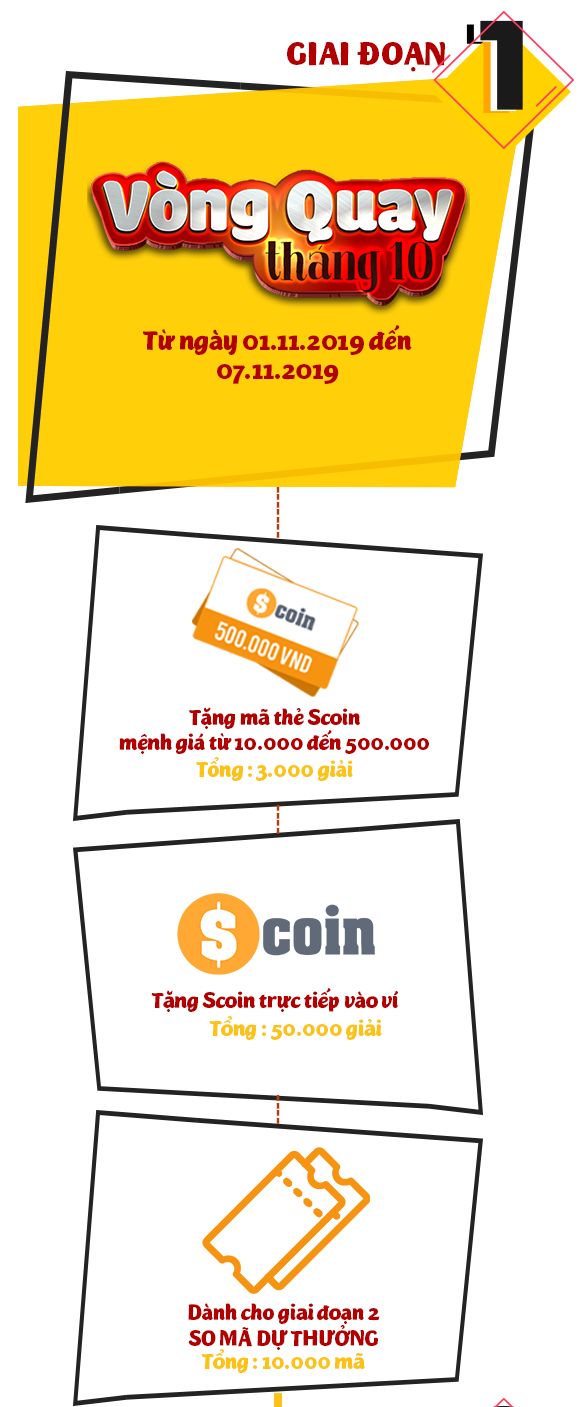
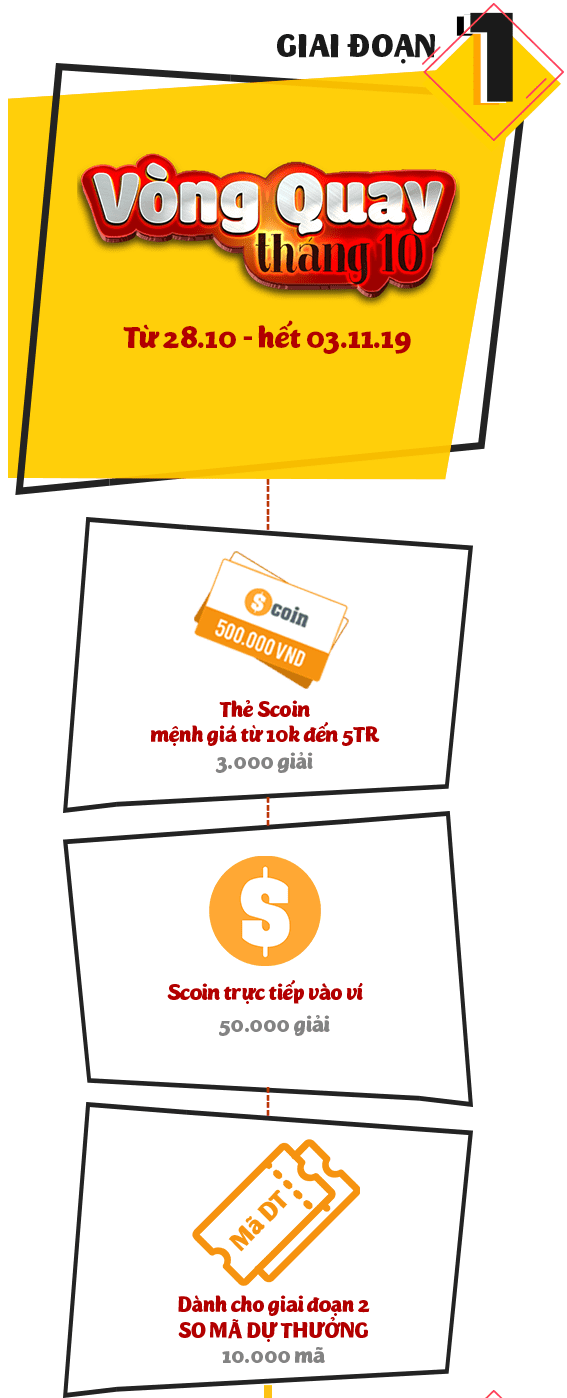
dev

Changed region(s): [[0.0, 0.0, 0.9894, 1.0], [0.8395, 0.9843, 0.8995, 1.0]]

diff --git a/src/containers/lucky_rotation/index.js b/src/containers/lucky_rotation/index.js
@@ -110,7 +110,8 @@ class Lucky_Rotation extends React.Component {
 			height:0,
 			img_width:0,
 			img_height:0,
-			code:true,
+			code:false,
+			scoinCard:false,
 			inputValue: '',
 			noti_mdt:false,
 			noti_tudo:false,
@@ -167,7 +168,7 @@ class Lucky_Rotation extends React.Component {
 				if(data!==undefined){
 					if(data.status==='01'){
 						if(data.data.itemOfSpin[1].quantity===0 && data.data.itemOfSpin[4].quantity===0){
-							var time=(1566815400000-Date.now())/1000;
+							var time=(1554984000000-Date.now())/1000;
 							this.setState({finished:true})
 							if(time>0){
 								$('#myModal13').modal('show');
@@ -194,15 +195,15 @@ class Lucky_Rotation extends React.Component {
 				var data=this.props.dataRotation;
 				if(data!==undefined){
 					if(data.status==='01'){
-						// if(data.data.itemOfSpin[1].quantity===0 && data.data.itemOfSpin[4].quantity===0){
-						// 	var time=(1566815400000-Date.now())/1000;
-						// 	this.setState({finished:true})
-						// 	if(time>0){
-						// 		$('#myModal13').modal('show');
-						// 	}else{
-						// 		$('#myModal14').modal('show');
-						// 	}
-						// }
+						if(data.data.itemOfSpin[1].quantity===0 && data.data.itemOfSpin[4].quantity===0){
+							var time=(1554984000000-Date.now())/1000;
+							this.setState({finished:true})
+							if(time>0){
+								$('#myModal13').modal('show');
+							}else{
+								$('#myModal14').modal('show');
+							}
+						}
 						this.getStatus(data.data.luckySpin);
 						this.timeShowLive(data.data.luckySpin.endDate);
 						this.setState({userTurnSpin:data.data.userTurnSpin, itemOfSpin:data.data.itemOfSpin, luckySpin:data.data.luckySpin, turnsFree:(data.data.userTurnSpin.turnsFree+data.data.userTurnSpin.turnsBuy), isLogin:false, linkLiveStream:data.data.luckySpin.linkLiveStream})
@@ -388,6 +389,9 @@ class Lucky_Rotation extends React.Component {
 												this.setState({noti_tudo:true})
 											},2000)
 											this.getVinhDanh(1);	
+										}
+										if(data.data.item.type==="SCOIN_CARD"){
+											this.setState({scoinCard:true})
 										}
 										this.setState({code:false})
 										
@@ -771,7 +775,7 @@ class Lucky_Rotation extends React.Component {
 	}
 
 	render() {
-		const {height, width, dialogLoginOpen, dialogBonus, auto, dialogWarning, textWarning, isLogin, userTurnSpin, day, hour, minute, second, code,numberPage, img_status, message_status, data_auto,message_error,linkLiveStream,
+		const {scoinCard,height, width, dialogLoginOpen, dialogBonus, auto, dialogWarning, textWarning, isLogin, userTurnSpin, day, hour, minute, second, code,numberPage, img_status, message_status, data_auto,message_error,linkLiveStream,
 			 activeTuDo, activeHistory, activeCodeBonus, activeVinhDanh, limit, countCodeBonus, countTuDo, countHistory, countVinhDanh, listHistory, listCodeBonus, listTuDo, listVinhDanh,itemBonus, turnsFree, noti_mdt, noti_tudo, finished, hour_live, minute_live, second_live, isLive, user}=this.state;
 		const { classes } = this.props;
 		const notification_mdt=noti_mdt?(<span className="badge badge-pill badge-danger position-absolute noti-mdt">!</span>):(<span></span>);
@@ -810,8 +814,8 @@ class Lucky_Rotation extends React.Component {
 					<p className="btn-thamgiangay"><a href="#p2" title="Tham gia ngay"><img src={thamgiangay} alt="Tham gia ngay" width="200" className="img-fluid" /></a></p>
 					<div className="position-absolute-p1">
 						<ul className="nav flex-column menu-left-p1">
-							{/* <li className="pt-6"><a href="https://scoin.vn/nap-tien" title="Nạp Scoin" target="_blank">Nạp Game</a></li> */}
-							<li className="pt-6"><a href="http://sandbox.scoin.vn/nap-tien" title="Nạp Scoin" target="_blank">Nạp Game</a></li>
+							{/* <li className="pt-6"><a href="https://scoin.vn/nap-game" title="Nạp Scoin" target="_blank">Nạp Game</a></li> */}
+							<li className="pt-6"><a href="http://sandbox.scoin.vn/nap-game" title="Nạp Scoin" target="_blank">Nạp Game</a></li>
 							<li className="pt-5b"><a href="#" title="Thể lệ" onClick={this.showModalRules}>Thể lệ</a></li>
 							<li className="pt-5b"><a href="#" title="Phần thưởng" onClick={this.showModalBonus}>Phần thưởng</a></li>
 							<li className="pt-5a"><a href="#bvd" title="Vinh danh">Vinh danh</a></li>
@@ -940,8 +944,8 @@ class Lucky_Rotation extends React.Component {
 						<a className="nav-link btn-dv text-uppercase text-nowrap" href="https://www.facebook.com/scoinvtcmobile/" title="Nhận thông báo sk" target="_blank">Nhận thông báo sk</a>
 						</li>
 						<li className="nav-item">
-						{/* <a className="nav-link btn-dv text-uppercase text-nowrap" href="https://scoin.vn/nap-tien" title="Nạp scoin" target="_blank">Nạp Game</a> */}
-						<a className="nav-link btn-dv text-uppercase text-nowrap" href="http://sandbox.scoin.vn/nap-tien" title="Nạp scoin" target="_blank">Nạp Game</a>
+						{/* <a className="nav-link btn-dv text-uppercase text-nowrap" href="https://scoin.vn/nap-game" title="Nạp scoin" target="_blank">Nạp Game</a> */}
+						<a className="nav-link btn-dv text-uppercase text-nowrap" href="http://sandbox.scoin.vn/nap-game" title="Nạp scoin" target="_blank">Nạp Game</a>
 						</li>
 						<li className="nav-item">
 						<a className="nav-link btn-dv text-uppercase text-nowrap" href="tel:19001104" title="Hotline hỗ trợ">HOT LINE: 19001104</a>
@@ -998,99 +1002,101 @@ class Lucky_Rotation extends React.Component {
 					</div>
 
 					{/* <!-- Modal body --> */}
-					<div className="modal-body">
-						<h3 className="text-red">I. Đối tượng tham gia</h3>
-						<p className="text-thele">Khách hàng có tài khoản Scoin. Nếu chưa có, đăng ký <code><a href="https://scoin.vn/thong-tin-ca-nhan" title="Đăng ký" target="_blank">tại đây</a></code>. <br />
-						Nạp game dùng thẻ Scoin mệnh giá tối thiểu 50k trong thời gian từ 00:01 ngày 1 - 23:59 ngày 7</p>
-						<h3 className="text-red">II. Cách thức tham gia sự kiện</h3>
+					<div class="modal-body">
+						<h3 class="text-red">I. Đối tượng tham gia</h3>
+						<p class="text-thele pl-3"> &bull; Khách hàng có tài khoản Scoin. Nếu chưa có, đăng ký <code><a href="#" title="Đăng ký" target="_blank">tại đây</a></code>. <br />
+						&bull; Nạp game dùng thẻ Scoin mệnh giá tối thiểu 50k trong thời gian từ 0h 28/10 - 23:59 03/11.</p>
+						<h3 class="text-red">II. Cách thức tham gia sự kiện</h3>
 						<div class="row">
-						<div class="col-4 bg-orange py-2 text-center border border-white rounded-lg"><button type="button" class="btn btn-primary d-block mx-auto mb-3">Bước 1</button><p class="text-dark">Nạp game(thẻ Scoin)</p> <p class="font-weight-bold text-success my-1">&nabla;</p> <p class="text-dark">Nhận lượt chơi</p></div>          
-						<div class="col-4 bg-orange py-2 text-center border border-white rounded-lg"><button type="button" class="btn btn-info d-block mx-auto mb-3">Bước 2</button><p class="text-dark">Chơi vòng quay </p> <p class="font-weight-bold text-success my-1">&nabla;</p> <p class="text-dark">Nhận mã dự thưởng</p></div>          
-						<div class="col-4 bg-orange py-2 text-center border border-white rounded-lg"><button type="button" class="btn btn-success d-block mx-auto mb-3">Bước 3</button><p class="text-dark">So KQ Mã dự thưởng <br /> 18:30 ngày 8 sự kiện</p></div>         
+						<div class="col-4 bg-orange py-2 text-center border border-white rounded-lg"><button type="button" class="btn btn-primary d-block mx-auto mb-3">Bước 1</button><p class="text-dark">Nạp game(thẻ Scoin)</p> <p class="font-weight-bold text-success my-1">&nabla;</p> <p class="text-dark">Nhận lượt chơi</p></div> 
+						<div class="col-4 bg-orange py-2 text-center border border-white rounded-lg"><button type="button" class="btn btn-info d-block mx-auto mb-3">Bước 2</button><p class="text-dark">Chơi vòng quay </p> <p class="font-weight-bold text-success my-1">&nabla;</p> <p class="text-dark">Nhận mã dự thưởng</p></div> 
+						<div class="col-4 bg-orange py-2 text-center border border-white rounded-lg"><button type="button" class="btn btn-success d-block mx-auto mb-3">Bước 3</button><p class="text-dark">So KQ Mã dự thưởng <br /> 19:00 04/11</p></div> 
 						</div>
-						<p className="text-thele pt-3">Bước 1:  Nạp game bất kỳ, chọn kênh thẻ cào Scoin mệnh giá tối thiểu 50k. <br />
-						Bước 2: Nhận lượt quay miễn phí, tương ứng với thẻ Scoin nạp thành công:</p>
-						<div className="table-responsive">
-							<table className="table table-bordered text-center text-thele">
-								<thead>
-									<tr>
-										<th colspan="4">Nạp thẻ Scoin vào game</th>                    
-									</tr>
-									<tr>
-										<th>STT</th>
-										<th>Mệnh giá thẻ Scoin (VNĐ)</th>
-										<th>Số lượt quay chuẩn</th>
-										<th>Số lượt quay (đã cộng)</th>
-									</tr>
-									</thead>
-									<tbody>
-									<tr>
-										<td>1</td>
-										<td>50.000</td>
-										<td>1</td>
-										<td></td>
-									</tr>
-									<tr>
-										<td>2</td>
-										<td>100.000</td>
-										<td>2</td>
-										<td></td>
-									</tr>
-									<tr>
-										<td>3</td>
-										<td>200.000</td>
-										<td>4</td>
-										<td></td>
-									</tr>
-									<tr>
-										<td>4</td>
-										<td>300.000</td>
-										<td>6</td>
-										<td></td>
-									</tr>
-									<tr>
-										<td>5</td>
-										<td>500.000</td>
-										<td>10</td>
-										<td></td>
-									</tr>
-									<tr>
-										<td>6</td>
-										<td>1.000.000</td>
-										<td>22</td>
-										<td>10%</td>
-									</tr>
-									<tr>
-										<td>7</td>
-										<td>2.000.000</td>
-										<td>44</td>
-										<td>10%</td>
-									</tr>
-									<tr>
-										<td>8</td>
-										<td>5.000.000</td>
-										<td>120</td>
-										<td>20%</td>
-									</tr>
-								</tbody>
-							</table>
+						<p class="text-thele pt-3 pl-3"> &bull; Bước 1: Nạp game bất kỳ, chọn kênh thẻ cào Scoin mệnh giá tối thiểu 50k. <br />
+						&bull; Bước 2: Nhận lượt quay miễn phí, tương ứng với thẻ Scoin nạp thành công:</p>
+						<div class="table-responsive">
+						<table class="table table-bordered text-center text-thele">
+							<thead>
+								<tr>
+									<th colspan="4">Nạp thẻ Scoin vào game</th> 
+								</tr>
+								<tr>
+									<th>STT</th>
+									<th>Mệnh giá thẻ Scoin (VNĐ)</th>
+									<th>Số lượt quay chuẩn</th>
+									<th>Số lượt quay (đã cộng)</th>
+								</tr>
+							</thead>
+						<tbody>
+							<tr>
+								<td>1</td>
+								<td>50.000</td>
+								<td>1</td>
+								<td></td>
+							</tr>
+							<tr>
+								<td>2</td>
+								<td>100.000</td>
+								<td>2</td>
+								<td></td>
+							</tr>
+							<tr>
+								<td>3</td>
+								<td>200.000</td>
+								<td>4</td>
+								<td></td>
+							</tr>
+							<tr>
+								<td>4</td>
+								<td>300.000</td>
+								<td>6</td>
+								<td></td>
+							</tr>
+							<tr>
+								<td>5</td>
+								<td>500.000</td>
+								<td>10</td>
+								<td></td>
+							</tr>
+							<tr>
+								<td>6</td>
+								<td>1.000.000</td>
+								<td>22</td>
+								<td>10%</td>
+							</tr>
+							<tr>
+								<td>7</td>
+								<td>2.000.000</td>
+								<td>44</td>
+								<td>10%</td>
+							</tr>
+							<tr>
+								<td>8</td>
+								<td>5.000.000</td>
+								<td>120</td>
+								<td>20%</td>
+							</tr>
+						</tbody>
+						</table>
 						</div>
-						
-						<h3 className="text-red">III. Các giải thưởng</h3>
-						<p className="text-thele">-Scoin sẽ được cộng trực tiếp vào ví Scoin của khách hàng.<br></br>
-						- Thẻ Scoin: sẽ được lưu trữ trong Tủ đồ sự kiện. Khách hàng có thể xem và sử dụng trực tiếp để nạp điện thoại hoặc nạp vào các game của VTC Mobile.<br></br>
-						- Mã dự thưởng: lưu trữ trong mục Mã dự thưởng. Khách hàng có thể tra cứu dễ dàng.<br></br>
-						- Giải đặc biệt - iPhone 11 Pro Max: Sau khi KQ Mã dự thưởng ngày 8 sự kiện được công bố, BTC sẽ cập nhật thông tin của khách hàng trúng thưởng trong Bảng vinh danh. Khách hàng trúng giải liên hệ Hotline 1900 1104 để được hướng dẫn nhận thưởng.
+						<p class="text-thele pt-3 pl-3"> &bull; Bước 3: Chơi vòng quay tại link: <a style={{color:'#0066ff', textDecoration:'underline'}}>www.vongquayt10.splay.vn</a> để nhận Mã dự thưởng (Cần đăng nhập bằng tài khoản Scoin để chơi). <br></br>
+						&bull; Bước 4: Mã dự thưởng dùng để đối chiếu với KQ Mã dự thưởng ngày 8 sự kiện để xác định trúng thưởng: <strong>1 điện thoại iPhone 11 Pro Max 256GB</strong></p>
+						<h3 class="text-red">III. Các giải thưởng</h3>
+						<p class="text-thele pl-3"> &bull; Scoin sẽ được cộng trực tiếp vào ví Scoin của khách hàng.<br></br>
+						&bull; Thẻ Scoin: sẽ được lưu trữ trong Tủ đồ sự kiện. Khách hàng có thể xem và sử dụng trực tiếp để nạp điện thoại hoặc nạp vào các game của VTC Mobile.<br></br>
+						&bull; Mã dự thưởng: lưu trữ trong mục Mã dự thưởng. Khách hàng có thể tra cứu dễ dàng.<br></br>
+						&bull; Giải đặc biệt - iPhone 11 Pro Max: Sau khi KQ Mã dự thưởng ngày 8 sự kiện được công bố, BTC sẽ cập nhật thông tin của khách hàng trúng thưởng trong Bảng vinh danh. Khách hàng trúng giải liên hệ Hotline 1900 1104 để được hướng dẫn nhận thưởng.
 						</p>
-						<h3 className="text-red">IV. Thời gian trao thưởng</h3>
-						<p className="text-thele">Công ty cổ phần VTC Dịch vụ di động sẽ trao giải thưởng cho khách hàng chậm nhất sau 15 ngày làm việc kể từ khi kết thúc sự kiện.</p>
-         <p className="text-thele"><code>Lưu ý:</code> - Khi đến nhận giải thưởng, khách hàng cần đem theo giấy tờ tùy thân (CMND/ CCCD/ Hộ chiếu còn hiệu lực. Theo khoản 6, điều 3, chương 1 của Luật thuế thu nhập cá nhân, những người may mắn trúng giải thưởng hiện vật có giá trị kinh tế cao có nghĩa vụ nộp thuế theo quy định của Nhà nước. Thông tin chi tiết xem <code><a href="https://www.mof.gov.vn/webcenter/portal/mttpltc/r/m/pchtrphlu/pchtrthtu/pchtrthtu_chitiet?dDocName=BTC260955&dID=31536&_afrLoop=73261410332298795#!%40%40%3F_afrLoop%3D73261410332298795%26centerWidth%3D100%2525%26dDocName%3DBTC260955%26dID%3D31536%26leftWidth%3D0%2525%26rightWidth%3D0%2525%26showFooter%3Dfalse%26showHeader%3Dfalse%26_adf.ctrl-state%3D1a8d3rpn02_4" title="tại đây" target="_blank">tại đây</a></code>.<br></br>
-- Trong tất cả các trường hợp, quyết định của Công ty cổ phần VTC Dịch vụ di động là quyết định cuối cùng. Mọi trường hợp gian lận hoặc không trung thực sẽ bị xử lý theo pháp luật.
+
+						<h3 class="text-red">IV. Thời gian trao thưởng</h3>
+						<p class="text-thele pl-3"> &bull; Công ty cổ phần VTC Dịch vụ di động sẽ trao giải thưởng cho khách hàng chậm nhất sau 15 ngày làm việc kể từ khi kết thúc sự kiện.</p>
+						<p class="text-thele pl-3"><code>Lưu ý:</code> <br />&bull; Khi đến nhận giải thưởng, khách hàng cần đem theo giấy tờ tùy thân (CMND/ CCCD/ Hộ chiếu còn hiệu lực. Theo khoản 6, điều 3, chương 1 của Luật thuế thu nhập cá nhân, những người may mắn trúng giải thưởng hiện vật có giá trị kinh tế cao có nghĩa vụ nộp thuế theo quy định của Nhà nước. Thông tin chi tiết xem <code><a href="https://www.mof.gov.vn/webcenter/portal/mttpltc/r/m/pchtrphlu/pchtrthtu/pchtrthtu_chitiet?dDocName=BTC260955&dID=31536&_afrLoop=73261410332298795#!%40%40%3F_afrLoop%3D73261410332298795%26centerWidth%3D100%2525%26dDocName%3DBTC260955%26dID%3D31536%26leftWidth%3D0%2525%26rightWidth%3D0%2525%26showFooter%3Dfalse%26showHeader%3Dfalse%26_adf.ctrl-state%3D1a8d3rpn02_4" title="tại đây" target="_blank">tại đây</a></code>.<br></br>
+						&bull; Trong tất cả các trường hợp, quyết định của Công ty cổ phần VTC Dịch vụ di động là quyết định cuối cùng. Mọi trường hợp gian lận hoặc không trung thực sẽ bị xử lý theo pháp luật.
 
 
-</p>
-						
-					</div>
+						</p>
+
+						</div>
 
 					</div>
 				</div>
@@ -1276,21 +1282,21 @@ class Lucky_Rotation extends React.Component {
 									{(code)?(
 									<div>
 										<div className="text-chucmung text-center" style={{marginTop:70}}>
-											<span className="text-white">Bạn vừa quay vào ô</span>
-											<span className="pt-1 d-block">Mã số dự thưởng Xe máy Honda Air Blade và Điện thoại iPhone XS Max đã được lưu trong Mã dự thưởng.</span>
+											<span className="pt-1 d-block">Bạn vừa nhận được Mã số dự thưởng giải hiện vật <span style={{fontWeight:'bold'}}>iPhone 11 Pro Max 256GB</span></span>
 										</div>
+										<p style={{textAlign:'center', fontSize:30, fontWeight:'bold'}}>{itemBonus.value}</p>
 									
-										<p className="small pt-2 mb-2 text-center">So Mã số dự thưởng với KQ XSMB vào lúc 18:30 ngày 26/08/2019.<br /><label title="Xem phần thưởng" className="underline pt-2 d-block" style={{color:"#fff", cursor:'pointer'}} onClick={this.showModalCodeBonus}>Xem phần thưởng</label></p>
+										<p className="small pt-2 mb-2 text-center">So KQ Mã số dự thưởng vào lúc 19:00 ngày 04/11/2019.<br /><label title="Xem phần thưởng" className="underline pt-2 d-block" style={{color:"#fff", cursor:'pointer'}} onClick={this.showModalCodeBonus}>Xem phần thưởng</label></p>
 										<button type="button" className="btn btn-xacnhan text-white btn-block text-center" onClick={this.hideModalDetailBonus}>Xác nhận</button>
 									</div>
 									):(
-									<div><div className="text-chucmung text-center" style={{marginTop:70}}>
-											<span className="text-white">Bạn vừa quay vào ô</span>
-											<span className="pt-1 d-block"><img src={itemBonus.urlImage} alt="" /></span>
+									<div>
+										<div className="text-chucmung text-center" style={{marginTop:70}}>
+											{(scoinCard)?(<span>Bạn vừa quay vào ô <span style={{color:'red'}}>thẻ Scoin {itemBonus.value}VND</span></span>):(<span>Bạn vừa nhận được <span style={{color:'red'}}>{itemBonus.value} Scoin</span></span>)}
 										</div>
-										<p className="small pt-2 mb-2 text-center">(Phần thưởng đã được chuyển vào tủ đồ sự kiện) <br /><label title="Xem phần thưởng" className="underline pt-2 d-block" style={{color:"#fff", cursor:'pointer'}} onClick={this.showModalTuDo}>Xem phần thưởng</label></p>
+										<p className="small pt-2 mb-2 text-center">(Phần thưởng đã được chuyển vào Tủ đồ sự kiện) <br /><label title="Xem phần thưởng" className="underline pt-2 d-block" style={{color:"#fff", cursor:'pointer'}} onClick={this.showModalTuDo}>Xem phần thưởng</label></p>
 										<button type="button" className="btn btn-xacnhan text-white btn-block text-center" onClick={this.hideModalDetailBonus}>Xác nhận</button>
-										</div>
+									</div>
 									)}	
 									
 								</div>
@@ -1339,8 +1345,8 @@ class Lucky_Rotation extends React.Component {
 						<div className="table-responsive mt-2">              
 							<h5 className="text-thele lead text-center">Bạn đã hết lượt quay!</h5>
 							<p className="text-thele lead text-center">Hãy nạp Scoin để nhận thêm lượt chơi Vòng quay tháng 10.</p>
-							{/* <button type="button" className="btn btn-xacnhan text-white btn-block text-center py-4" onClick={()=>this.openTabNapScoin('https://scoin.vn/nap-tien')}>Nạp Game</button> */}
-							<button type="button" className="btn btn-xacnhan text-white btn-block text-center py-4" onClick={()=>this.openTabNapScoin('http://sandbox.scoin.vn/nap-tien')}>Nạp Game</button>
+							{/* <button type="button" className="btn btn-xacnhan text-white btn-block text-center py-4" onClick={()=>this.openTabNapScoin('https://scoin.vn/nap-game')}>Nạp Game</button> */}
+							<button type="button" className="btn btn-xacnhan text-white btn-block text-center py-4" onClick={()=>this.openTabNapScoin('http://sandbox.scoin.vn/nap-game')}>Nạp Game</button>
 						</div>       
 					</div>
 
@@ -1473,8 +1479,8 @@ class Lucky_Rotation extends React.Component {
 								</tbody>
 							</table> 
 							<div class="btn-logout position-relative w-25 mx-auto text-center left-0 top-0">
-								{/* <h5 class="text-center" onClick={()=>this.openTabNapScoin('https://scoin.vn/nap-tien')}><a>Nạp</a></h5> */}
-								<h5 class="text-center" onClick={()=>this.openTabNapScoin('http://sandbox.scoin.vn/nap-tien')}><a>Nạp</a></h5>
+								{/* <h5 class="text-center" onClick={()=>this.openTabNapScoin('https://scoin.vn/nap-game')}><a>Nạp</a></h5> */}
+								<h5 class="text-center" onClick={()=>this.openTabNapScoin('http://sandbox.scoin.vn/nap-game')}><a>Nạp</a></h5>
 							</div>             
 							{/* <button type="button" className="btn btn-xacnhan text-white btn-block text-center" onClick={()=>this.openTabNapScoin('https://scoin.vn/nap-game')}>Nạp</button> */}
 						</div>
@@ -1542,8 +1548,8 @@ class Lucky_Rotation extends React.Component {
 						{/* <!-- Modal body --> */}
 						<div className="modal-body">
 							<div className="table-responsive mt-2">           
-								<h5 className="text-thele lead text-center">Kết quả trúng thưởng 2 giải Xe máy Airblade 2019 & điện thoại Xiaomi Black Shark 2 sẽ được công bố sau ngày 26/08/2019.</h5>
-								<h5 className="text-thele lead text-center">Đón xem live stream buổi so mã Dự thưởng vào lúc 17:30 - 19:00 ngày 26/08 trang sự kiện này hoặc tại fanpage Scoin: <a href="https://www.facebook.com/scoinvtcmobile/">https://www.facebook.com/scoinvtcmobile/</a></h5>
+								<h5 className="text-thele lead text-center">Kết quả trúng thưởng iPhone 11 Pro Max 256GB sẽ được công bố sau ngày 04/11/2019.</h5>
+								<h5 className="text-thele lead text-center">Đón xem live stream buổi so mã Dự thưởng vào lúc 19:00 ngày 04/11 trang sự kiện này hoặc tại fanpage Scoin: <a href="https://www.facebook.com/scoinvtcmobile/">https://www.facebook.com/scoinvtcmobile/</a></h5>
 								<h5 className="text-thele lead text-center">BTC trân trọng thông báo.</h5>
 								<button type="button" className="btn btn-xacnhan text-white btn-block text-center py-4" onClick={this.closePopupFinish}>Xác nhận</button>
 							</div>       
